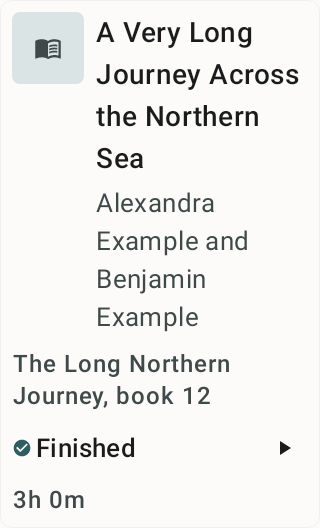
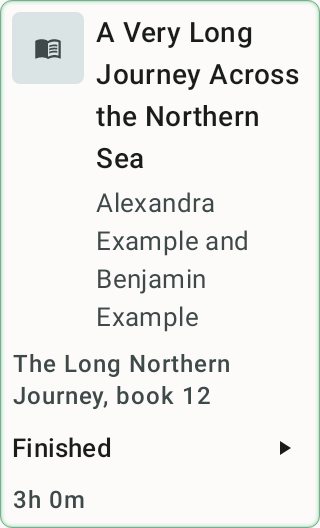
Use a subtle inner green edge for finished series books

Changed region(s): [[0.0, 0.0, 1.0, 1.0]]

diff --git a/app/src/test/kotlin/com/example/shelfplayer/feature/series/SeriesBookCardScreenTest.kt b/app/src/test/kotlin/com/example/shelfplayer/feature/series/SeriesBookCardScreenTest.kt
@@ -2,7 +2,10 @@ package com.example.shelfplayer.feature.series
 
 import android.graphics.Bitmap
 import android.graphics.Canvas
+import android.graphics.Color
 import android.view.View
+import androidx.compose.foundation.layout.Box
+import androidx.compose.foundation.layout.padding
 import androidx.compose.material3.Surface
 import androidx.compose.ui.Modifier
 import androidx.compose.ui.platform.LocalView
@@ -15,7 +18,10 @@ import androidx.compose.ui.test.onNodeWithTag
 import androidx.compose.ui.test.onNodeWithText
 import androidx.compose.ui.test.performSemanticsAction
 import androidx.compose.ui.text.TextLayoutResult
+import androidx.compose.ui.unit.Dp
+import androidx.compose.ui.unit.dp
 import androidx.core.graphics.createBitmap
+import androidx.core.graphics.get
 import com.example.shelfplayer.core.designsystem.theme.ShelfPlayerTheme
 import com.example.shelfplayer.core.model.AuthorId
 import com.example.shelfplayer.core.model.LibraryId
@@ -38,6 +44,7 @@ import org.robolectric.annotation.Config
 import org.robolectric.annotation.GraphicsMode
 import java.io.File
 import java.time.Instant
+import kotlin.test.assertEquals
 import kotlin.test.assertFalse
 import kotlin.test.assertTrue
 import kotlin.time.Duration.Companion.hours
@@ -144,6 +151,66 @@ class SeriesBookCardScreenTest {
     }
 
     @Test
+    fun `finished text aligns with metadata without a leading completed checkmark`() {
+        render(book().copy(progress = progress(finished = true)))
+        val finished = compose.onNodeWithText("Finished", useUnmergedTree = true).getBoundsInRoot()
+        val membership = compose.onNodeWithText("$SERIES, book 12", useUnmergedTree = true).getBoundsInRoot()
+        assertEquals(membership.left, finished.left, "a completed checkmark must not precede Finished")
+    }
+
+    @Test
+    fun `completed light card glows inward without an outside halo`() = assertFinishedGlow(darkTheme = false)
+
+    @Test
+    fun `completed dark card glows inward without an outside halo`() = assertFinishedGlow(darkTheme = true)
+
+    @Test
+    fun `in progress card has no green completion edge`() {
+        render(book().copy(progress = progress(finished = false)), framePadding = FRAME_PADDING)
+        val bounds = compose.onNodeWithTag("series-book").getBoundsInRoot()
+        val image = captureView()
+        val density = renderedView.resources.displayMetrics.density
+        val x = ((bounds.left.value + EDGE_SAMPLE_INSET) * density).toInt()
+        val y = ((bounds.top.value + bounds.bottom.value) / 2f * density).toInt()
+        assertFalse(image[x, y].isCompletionGreen(), "unfinished card looks completed")
+    }
+
+    private fun assertFinishedGlow(darkTheme: Boolean) {
+        render(book().copy(progress = progress(finished = true)), darkTheme, FRAME_PADDING)
+        compose.onNodeWithText("Finished", useUnmergedTree = true).assertExists()
+        val bounds = compose.onNodeWithTag("series-book").getBoundsInRoot()
+        val image = captureView()
+        val density = renderedView.resources.displayMetrics.density
+        val left = (bounds.left.value * density).toInt()
+        val y = ((bounds.top.value + bounds.bottom.value) / 2f * density).toInt()
+        assertTrue(
+            image[left + (EDGE_SAMPLE_INSET * density).toInt(), y].isCompletionGreen(),
+            "completed card needs a visible green inner edge on its actual rendered surface",
+        )
+        assertFalse(
+            image[left + (FRAME_PADDING.value * density).toInt(), y].isCompletionGreen(),
+            "the glow should fade before reaching metadata",
+        )
+        assertEquals(
+            image[left - (OUTSIDE_FAR_INSET * density).toInt(), y],
+            image[left - (OUTSIDE_NEAR_INSET * density).toInt(), y],
+            "the completed-card glow must not spread outside its border",
+        )
+    }
+
+    private fun Int.isCompletionGreen(): Boolean = Color.green(this) - Color.red(this) > MIN_GREEN_OVER_RED &&
+        Color.green(this) - Color.blue(this) > MIN_GREEN_OVER_BLUE
+
+    private fun captureView(): Bitmap {
+        lateinit var image: Bitmap
+        compose.runOnIdle {
+            image = createBitmap(renderedView.width, renderedView.height, Bitmap.Config.ARGB_8888)
+            renderedView.draw(Canvas(image))
+        }
+        return image
+    }
+
+    @Test
     @Config(fontScale = 2.0f)
     @GraphicsMode(GraphicsMode.Mode.NATIVE)
     fun `native render of finished row preserves readable complete metadata`() {
@@ -179,12 +246,19 @@ class SeriesBookCardScreenTest {
         }
     }
 
-    private fun render(book: Book) {
+    private fun render(book: Book, darkTheme: Boolean = false, framePadding: Dp = 0.dp) {
         compose.setContent {
-            ShelfPlayerTheme(darkTheme = false, dynamicColor = false) {
+            ShelfPlayerTheme(darkTheme = darkTheme, dynamicColor = false) {
                 renderedView = LocalView.current
                 Surface {
-                    SeriesBookCard(book = book, onClick = {}, onPlay = {}, modifier = Modifier.testTag("series-book"))
+                    Box(modifier = Modifier.padding(framePadding)) {
+                        SeriesBookCard(
+                            book = book,
+                            onClick = {},
+                            onPlay = {},
+                            modifier = Modifier.testTag("series-book"),
+                        )
+                    }
                 }
             }
         }
@@ -224,5 +298,11 @@ class SeriesBookCardScreenTest {
         const val AUTHOR = "Alexandra Example and Benjamin Example"
         const val SERIES = "The Long Northern Journey"
         const val PIXEL_ROUNDING_TOLERANCE = 1f
+        val FRAME_PADDING = 8.dp
+        const val EDGE_SAMPLE_INSET = 1f
+        const val OUTSIDE_NEAR_INSET = 2f
+        const val OUTSIDE_FAR_INSET = 6f
+        const val MIN_GREEN_OVER_RED = 15
+        const val MIN_GREEN_OVER_BLUE = 8
     }
 }

diff --git a/app/src/main/kotlin/com/example/shelfplayer/feature/series/SeriesBookCard.kt b/app/src/main/kotlin/com/example/shelfplayer/feature/series/SeriesBookCard.kt
@@ -7,7 +7,6 @@ import androidx.compose.foundation.layout.fillMaxWidth
 import androidx.compose.foundation.layout.padding
 import androidx.compose.foundation.layout.size
 import androidx.compose.material.icons.Icons
-import androidx.compose.material.icons.filled.CheckCircle
 import androidx.compose.material.icons.filled.PlayArrow
 import androidx.compose.material3.Icon
 import androidx.compose.material3.IconButton
@@ -16,6 +15,13 @@ import androidx.compose.material3.Text
 import androidx.compose.runtime.Composable
 import androidx.compose.ui.Alignment
 import androidx.compose.ui.Modifier
+import androidx.compose.ui.draw.drawWithContent
+import androidx.compose.ui.geometry.CornerRadius
+import androidx.compose.ui.geometry.Offset
+import androidx.compose.ui.geometry.Size
+import androidx.compose.ui.graphics.Color
+import androidx.compose.ui.graphics.drawscope.Stroke
+import androidx.compose.ui.graphics.luminance
 import androidx.compose.ui.res.stringResource
 import androidx.compose.ui.unit.dp
 import com.example.shelfplayer.R
@@ -25,6 +31,7 @@ import com.example.shelfplayer.feature.browse.BookCover
 import com.example.shelfplayer.feature.browse.BookProgressLine
 import com.example.shelfplayer.feature.browse.readable
 import com.example.shelfplayer.ui.glass.GlassCard
+import com.example.shelfplayer.ui.glass.GlassDefaults
 import kotlin.time.Duration
 
 /**
@@ -41,7 +48,15 @@ internal fun SeriesBookCard(
     modifier: Modifier = Modifier,
     membership: SeriesMembership? = book.seriesMemberships.firstOrNull(),
 ) {
-    GlassCard(onClick = onClick, modifier = modifier.fillMaxWidth()) {
+    val completionColor = if (MaterialTheme.colorScheme.surface.luminance() < DARK_SURFACE_LUMINANCE) {
+        CompletedEdgeDark
+    } else {
+        CompletedEdgeLight
+    }
+    val cardModifier = modifier.fillMaxWidth().let { card ->
+        if (book.progress?.isFinished == true) card.completedInnerEdge(completionColor) else card
+    }
+    GlassCard(onClick = onClick, modifier = cardModifier) {
         Column(
             modifier = Modifier.fillMaxWidth().padding(CARD_PADDING),
             verticalArrangement = Arrangement.spacedBy(SECTION_GAP),
@@ -99,29 +114,34 @@ internal fun SeriesBookCard(
 private fun ListeningState(book: Book, modifier: Modifier = Modifier) {
     val progress = book.progress
     val finished = progress?.isFinished == true
-    Row(
+    Text(
         modifier = modifier,
-        horizontalArrangement = Arrangement.spacedBy(TEXT_GAP),
-        verticalAlignment = Alignment.CenterVertically,
-    ) {
-        if (finished) {
-            Icon(
-                imageVector = Icons.Filled.CheckCircle,
-                contentDescription = null,
-                tint = MaterialTheme.colorScheme.primary,
-                modifier = Modifier.size(STATE_ICON_SIZE),
-            )
-        }
-        Text(
-            text = stringResource(
-                when {
-                    finished -> R.string.book_finished
-                    progress != null && progress.position > Duration.ZERO -> R.string.series_book_in_progress
-                    else -> R.string.series_book_not_started
-                },
-            ),
-            style = MaterialTheme.typography.labelLarge,
-            color = MaterialTheme.colorScheme.onSurface,
+        text = stringResource(
+            when {
+                finished -> R.string.book_finished
+                progress != null && progress.position > Duration.ZERO -> R.string.series_book_in_progress
+                else -> R.string.series_book_not_started
+            },
+        ),
+        style = MaterialTheme.typography.labelLarge,
+        color = MaterialTheme.colorScheme.onSurface,
+    )
+}
+
+/** Owner-approved completion cue: fade inward, keeping every stroke inside the card's rounded boundary. */
+private fun Modifier.completedInnerEdge(color: Color): Modifier = drawWithContent {
+    drawContent()
+    val cornerRadius = GlassDefaults.CardCornerRadius.toPx()
+    val stepWidth = GLOW_STEP_WIDTH.toPx()
+    for (step in GLOW_STEPS downTo 1) {
+        val strokeWidth = stepWidth * step
+        val inset = strokeWidth / 2f
+        drawRoundRect(
+            color = color.copy(alpha = GLOW_EDGE_ALPHA / (step * step)),
+            topLeft = Offset(inset, inset),
+            size = Size(size.width - strokeWidth, size.height - strokeWidth),
+            cornerRadius = CornerRadius((cornerRadius - inset).coerceAtLeast(0f)),
+            style = Stroke(width = strokeWidth),
         )
     }
 }
@@ -130,4 +150,11 @@ private val CARD_PADDING = 12.dp
 private val SECTION_GAP = 12.dp
 private val TEXT_GAP = 4.dp
 private val COVER_SIZE = 72.dp
-private val STATE_ICON_SIZE = 20.dp
+private val GLOW_STEP_WIDTH = 1.dp
+private const val GLOW_STEPS = 6
+private const val GLOW_EDGE_ALPHA = 0.45f
+private const val DARK_SURFACE_LUMINANCE = 0.5f
+
+/** Stable green status roles, matching the app's existing light/dark reachability color family. */
+private val CompletedEdgeLight = Color(0xFF15803D)
+private val CompletedEdgeDark = Color(0xFF6EE7A0)

diff --git a/docs/reviews/2026-10-03-series-screen-hallmark.md b/docs/reviews/2026-10-03-series-screen-hallmark.md
@@ -27,7 +27,9 @@ series-detail surface; the broader Home, flat list, profile picker and Appearanc
 - Typography: existing Material 3 `Typography()` and system text scaling
   (`core/designsystem/.../theme/Type.kt:12`), retained.
 - Palette: existing Material 3 semantic colors, shipped teal accent and user-selected appearance
-  (`core/designsystem/.../theme/Theme.kt:24` and `:41`), retained. No additional hardcoded colors.
+  (`core/designsystem/.../theme/Theme.kt:24` and `:41`), retained. The owner's 2026-10-04 refinement adds
+  a dedicated green completion edge using named light/dark status-color tokens; it does not recolor
+  book text, playback actions or the rest of the theme.
 - Framework: native Kotlin / Jetpack Compose Material 3. Existing `GlassCard` remains the containment
   surface (`app/.../ui/glass/GlassSurfaces.kt:91`); no new design system or web implementation.
 - Spacing: existing four-dp rhythm. The series row uses 12-dp padding/gaps and 4-dp text spacing.
@@ -46,10 +48,17 @@ and author names. The selected series membership and listening progress use the 
 below that row. Metadata wraps naturally; there is no fixed row height or title/author line cap.
 
 Each card shows **Finished**, **In progress** or **Not started**, derived from the existing book progress.
-Finished adds a check-circle icon beside the visible text, so color is supplementary. The icon is
-decorative for TalkBack because the visible text already announces the state. No duplicate playback
-state or server API is introduced. In progress means an unfinished progress record has a positive
-position; a zero-position record is not presented as started.
+The initial revision added a check-circle icon. After reviewing the rendered items, the owner asked on
+2026-10-04 to remove that checkmark and replace it with a slight green glow on the **inside** border of
+completed cards. The visible **Finished** text remains the non-color cue and TalkBack state information.
+No duplicate playback state or server API is introduced. In progress means an unfinished progress
+record has a positive position; a zero-position record is not presented as started.
+
+The refinement uses a static rounded inner edge that fades toward the interior. There is no external
+shadow/halo, animation, tinted metadata panel or change to card geometry. Light/dark green status
+tokens follow the active Material surface luminance rather than the phone's system light/dark setting,
+so the app's selected appearance controls the treatment. The color remains green even when a different
+app accent is selected. The preserved Finished text carries the completion meaning independently.
 
 The card still opens details. Its separate 48-dp, book-named Play control invokes the existing series
 play callback and does not also open details. The label does not promise a restart policy that this
@@ -90,7 +99,7 @@ arithmetic, target-book continuation, all-finished behavior, separate per-row pl
 and minimum targets at doubled text size. Its per-row action check now scrolls the lazy list to the
 target, accommodating content-driven row height.
 
-**Validation status:** native focused suite passed all 20 cases (16 card tests, four screen tests),
+**Initial revision validation:** native focused suite passed all 20 cases (16 card tests, four screen tests),
 including the twelve width/text-scale combinations and two render captures. Replacing the row with
 the old implementation failed all three guard cases, then the restored-source repeat passed all 20
 again. Full integration `verifyDebug` remains the integration owner's final check.
@@ -99,7 +108,7 @@ Two synthetic native PNGs were generated using the real `ShelfPlayerTheme`, norm
 and the existing missing-cover placeholder, and visually inspected:
 
 - [Finished row at 320 dp / doubled text](evidence/series-finished-320dp-font2.png): complete long title, author and series;
-  visible finished checkmark/text and duration; no clipped content.
+  finished treatment/text and duration; no clipped content.
 - [In-progress row at 414 dp / standard text](evidence/series-in-progress-414dp-font1.png): compact cover/title/author arrangement,
   in-progress state, complete listening progress and progress bar.
 
@@ -109,14 +118,38 @@ produced inspected renders without depending on that unavailable window. A JVM l
 does not prove physical rendering, TalkBack navigation, audible playback continuity or effective glass
 contrast across all appearance choices. The phone was reconnected for integration acceptance. Finished rows at 100% and 200% portrait text were inspected on debug 2177; see the [execution log](../testing/2026-10-03-series-history-sleep.md). The remaining physical matrix below is still required.
 
+## 2026-10-04 completion-edge refinement verification
+
+Four native tests extend the original geometry/state suite:
+
+- Finished text aligns with the metadata's leading edge, without the space previously occupied by the
+  completed-book checkmark.
+- Light and dark completed cards have a visible green signal at the inner edge, fading before the text
+  region. Samples immediately outside the card match the untouched background farther away, guarding
+  the requested absence of an outside halo.
+- An in-progress card has no green completion edge. Existing Finished/In progress/Not started text and
+  independent Play/navigation tests remain in place.
+
+Mutation verification restored the previous card: both completed-edge checks and the Finished-text
+alignment check failed, while unfinished-card exclusion passed (three of four red). Restoring the refined
+source passed all 24 series cases (20 card and four screen). The regenerated finished/in-progress native
+PNGs were visually inspected: full metadata and Finished text remain readable, the completed green edge
+is subtle and inward, and the in-progress card has no completion edge. Formatter and full verifyDebug warnings-as-errors passed in 1m 50s (1,119 tasks). The initial gate
+caught five test-only Bitmap.getPixel UseKtx errors; those now use the required Kotlin extensions.
+Prior phone acceptance of the initial checkmark presentation does not accept the refined appearance automatically.
+The inner glow is supplemental decoration; visible text, accessible actions and adaptive metadata retain
+their existing contrast and geometry obligations.
+
 ## Required physical checks
 
-- Open a cached series with finished, in-progress and not-started books; confirm visible checkmarks,
-  state text, complete metadata and selected membership in the correct order.
+- Open a cached series with finished, in-progress and not-started books; confirm only completed cards
+  have the inward green glow, no completed-book checkmark or outside halo, and visible state text,
+  complete metadata and selected membership in the correct order.
 - Repeat portrait/landscape, English/Norwegian and text scale 1.0/1.3/2.0; scroll the final row clear
   of the mini-player. Include missing artwork and long titles/authors/series names.
 - Compare light, dark, AMOLED, dynamic accent and an artwork/background appearance. Check actual
-  text and icon contrast on the effective surface; preserve user's appearance choices.
+  text/control contrast and the subtle completion edge on the effective surface; preserve user's
+  appearance choices.
 - Use TalkBack to read the book identity and state and reach the separate Play action. Confirm its
   tap starts only that book; a row tap opens details without starting playback.
 - Repeat with playback active and with network unavailable. Navigation and rendering must preserve

diff --git a/docs/testing/2026-10-03-series-history-sleep.md b/docs/testing/2026-10-03-series-history-sleep.md
@@ -35,7 +35,7 @@ and redacted/private evidence for each case using the [verification register](ro
 
 | Case | Procedure and pass condition |
 | --- | --- |
-| FIX-D01 | Cached series with finished/in-progress/not-started books, long metadata and multiple memberships: visible textual states/checkmark; correct selected sequence; full metadata; details/Play act separately. |
+| FIX-D01 | Cached series with finished/in-progress/not-started books, long metadata and multiple memberships: visible textual states and subtle green inside border on completed cards; correct selected sequence; full metadata; details/Play act separately. |
 | FIX-D02 | Series portrait/landscape, 100/130/200% text, English/Norwegian, missing cover, last row above mini-player; light/dark/AMOLED/dynamic/artwork appearance and TalkBack. Nothing clips; effective contrast and minimum controls remain usable. |
 | FIX-D03 | Open/scroll series and History during active playback and without internet. Audio/position continuity survives navigation; repository state remains available. |
 | FIX-D04 | Offline local listening at least two minutes with History closed and Activity backgrounded: rolling checkpoint advances within five seconds, one row per event interval, correct date/time/position/percent. Force-stop, cold open and explicit Resume; compare saved position, with no more than ten seconds lost. Repeat process kill and phone restart separately; do not confuse graceful pause with abrupt loss. |
@@ -104,3 +104,9 @@ Cleanup at 20:48:03 UTC: returning through the original 20:27 History marker res
 pre-test book position **64,025,977 ms**, with playback PAUSED. Test listening and chapter seeks are
 not left as the listener's current position. Font scale 1.0, density 450, automatic rotation 1,
 Wi-Fi/data enabled and Normal sensitivity are restored; no active sleep timer remains.
+
+## Completion cue refinement — 2026-10-04
+
+The user requested removal of the completed checkmark after reviewing the phone rows. Finished text remains; completed cards now use a subtle green glow inside their border. The earlier phone checkmark observations above apply to APK 2177 only. Physical acceptance of the revised glow, light/dark appearance, TalkBack and remaining layout cases is **NOT RUN**, as requested; retain these in the missing-test matrix and proceed with the roadmap. Native rendering verification is recorded in the Hallmark review.
+
+Refinement validation: three completion guards failed against the old card; restored refinement passed all 24 series tests. Regenerated native images were inspected. Formatter and full verifyDebug with warnings-as-errors passed in 1m 50s; initial test-only Lint findings were fixed. No dependency/classpath changes.

diff --git a/PRODUCT_SPEC.md b/PRODUCT_SPEC.md
@@ -330,7 +330,8 @@ The identifiers below are stable. Code, tests, pull requests, and issues should 
 - The smart downloader uses a selected primary series; when none is selected, it uses the first server-provided ordered series and records that choice.
 - Series order and next-book information remain available offline for downloaded books.
 - Series detail rows grow with wrapped title, author, selected series/sequence and progress. Each book has
-  an explicit Finished icon/text or In progress / Not started label; large text must not hide metadata.
+  an explicit Finished text label and subtle green glow along the inside card border, or an In progress /
+  Not started label; large text must not hide metadata.
 
 ### LIB-004 Book details
 

diff --git a/docs/product-decisions.md b/docs/product-decisions.md
@@ -298,7 +298,7 @@ manifest unchanged, so the book looked stuck.
 **Scope:** Series detail and playback History (LIB-003/004, PLAY-003/004)
 **Source:** Owner's screenshot and requested fixes in this chat.
 
-Series rows must show complete wrapped metadata and identify finished books with a checkmark and text,
+Series rows must show complete wrapped metadata and identify finished books with Finished text and a subtle green glow inside the card border,
 alongside in-progress/not-started state. The next book's full title stays readable outside a short Continue
 button. Details and explicit Play keep separate actions; ordering and cached repository state remain authoritative.
 
